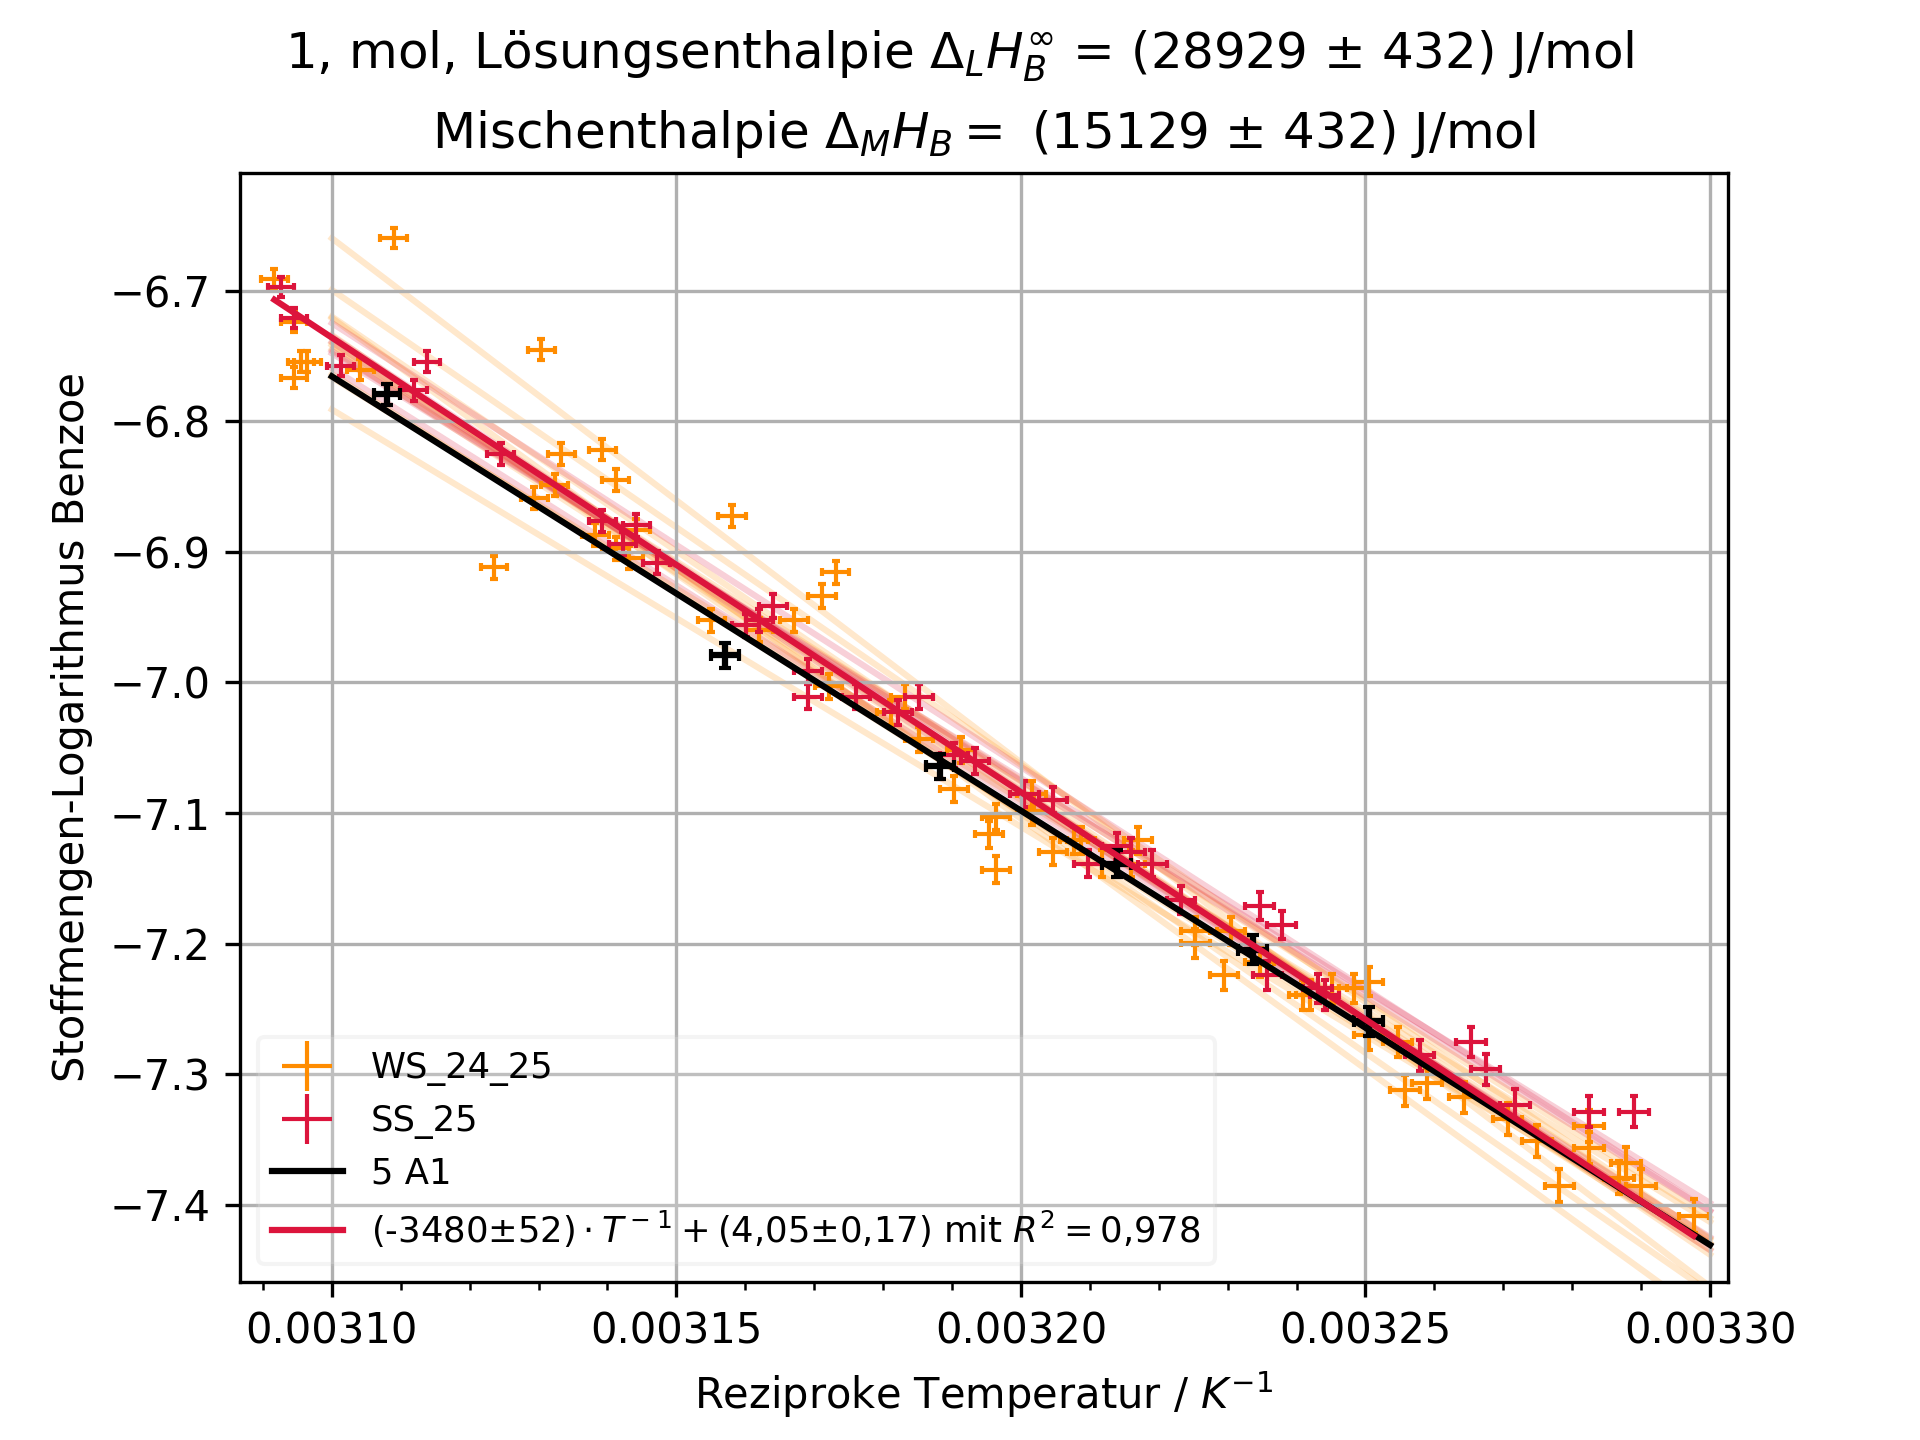
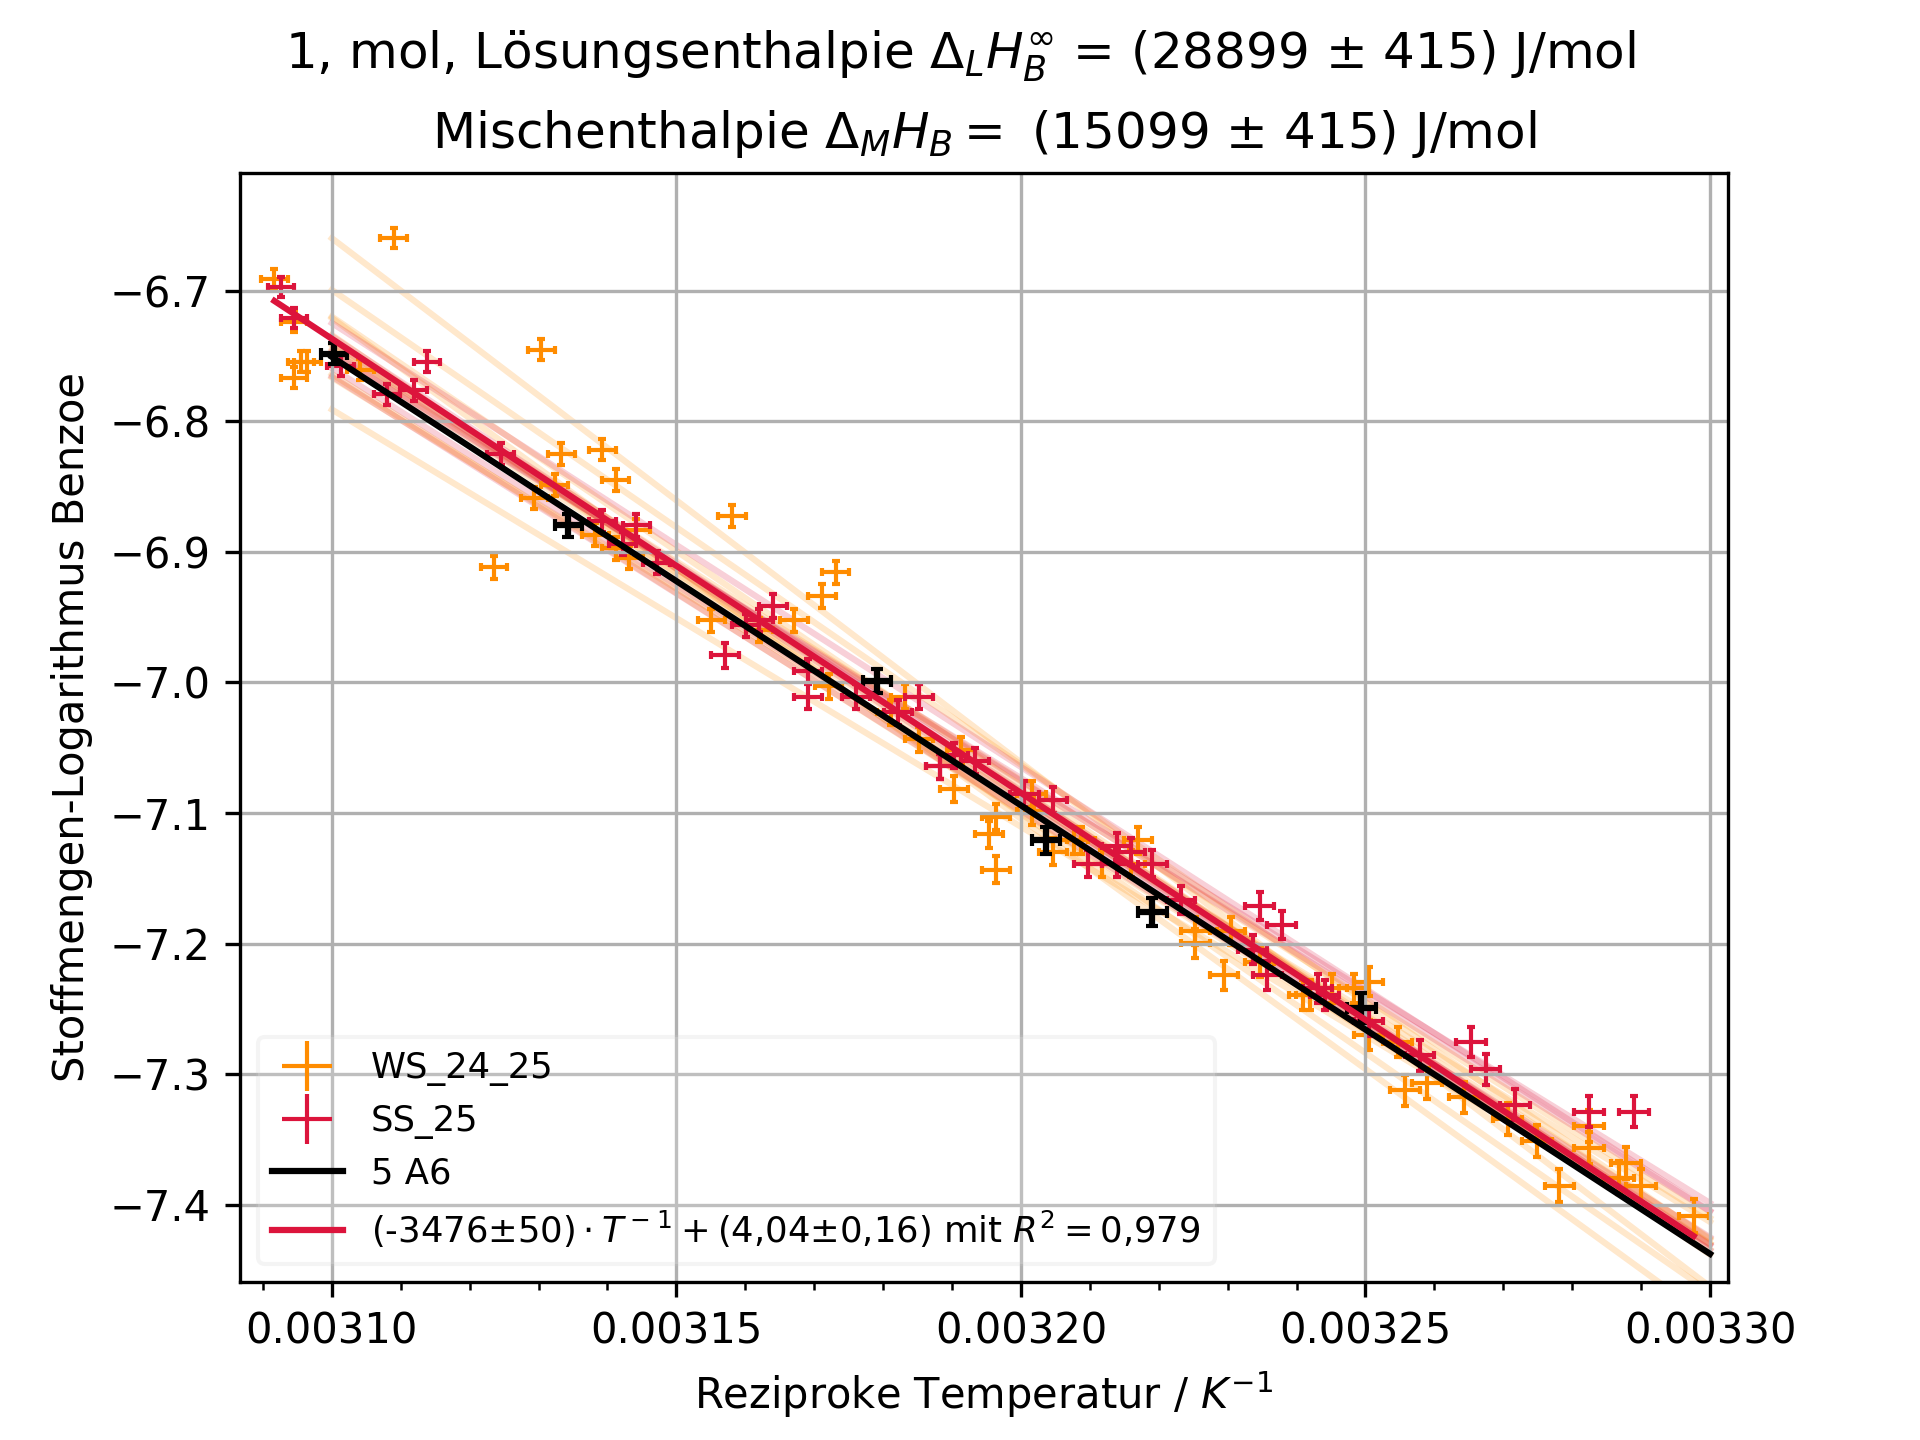
modified:   Daten/Ideal_SS_25.csv 	modified:   Daten/Wasser_SS_25.csv 	modified:   "L\303\266sungen.py" 	new file:   PNG/Wasser_SS_25/Wasser A6 Benzoe.png 	modified:   PNG/Zusammen_Benzoe.png 	modified:   PNG/Zusammen_Salicyl.png

diff --git a/Lösungen.py b/Lösungen.py
@@ -283,7 +283,7 @@ def EineGruppe(Gruppe, semester, Print = True):
 
 # EineAbfrage('A5', 'Benzoe', True) # Einzelne Gruppe und einzelner Stoff
 # EineGruppe('A1', 5) # Eine Gruppe und beide Stoffe sowie die ideale Lösung
-# Ideal('B1', 5, True) # Ideale Lösung für eine Gruppe
+Ideal('A6', 5, True) # Ideale Lösung für eine Gruppe
 
-AlleAbfragen([4, 5], Print=True, Probegruppe=['5_T(A1_B)', '5_T(A1_S)'])  # Alle Gruppen und Stoffe. Optional Print=True/False für Ausgabe der Ergebnisse
+# AlleAbfragen([4, 5], Print=True, Probegruppe=['5_T(A6_B)'])  # Alle Gruppen und Stoffe. Optional Print=True/False für Ausgabe der Ergebnisse
 
